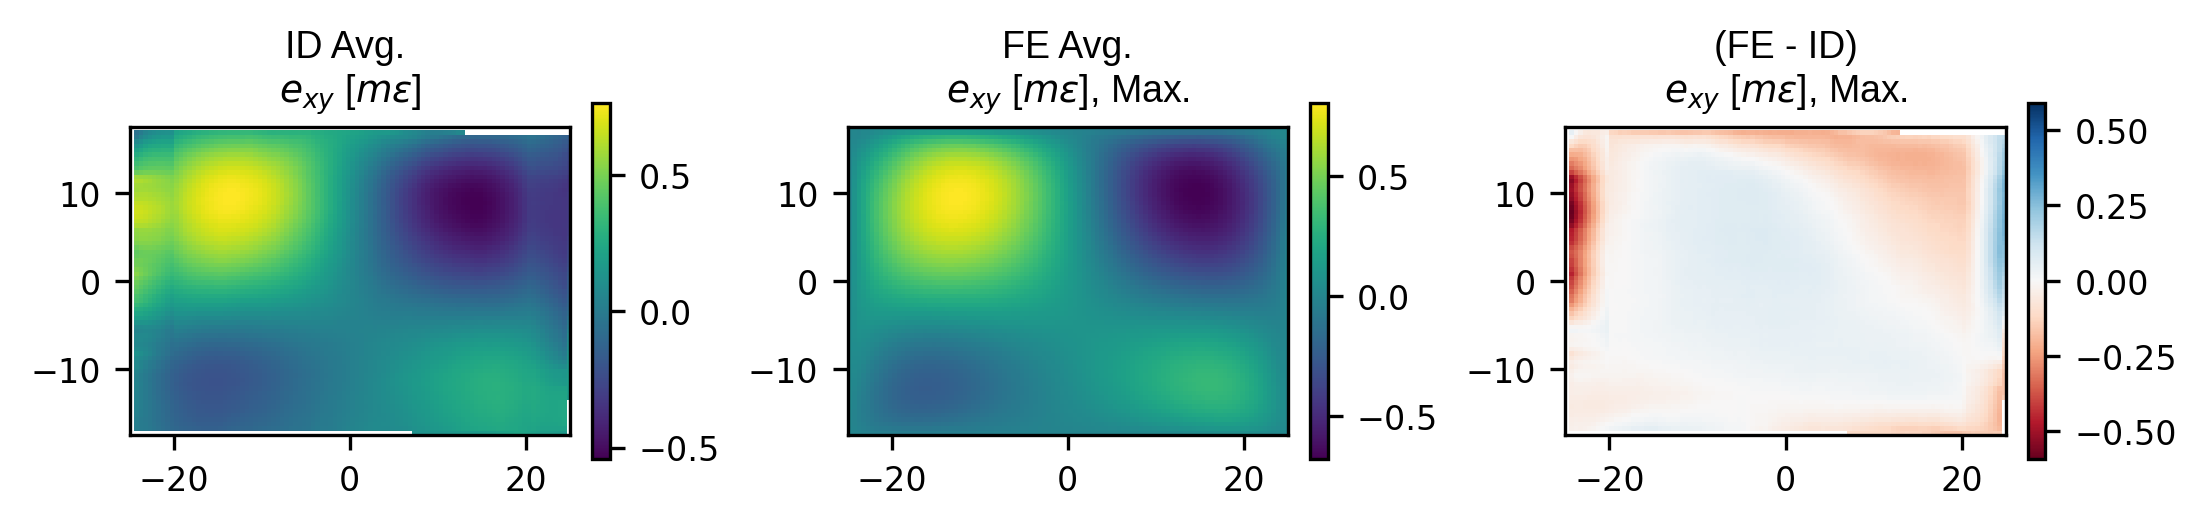
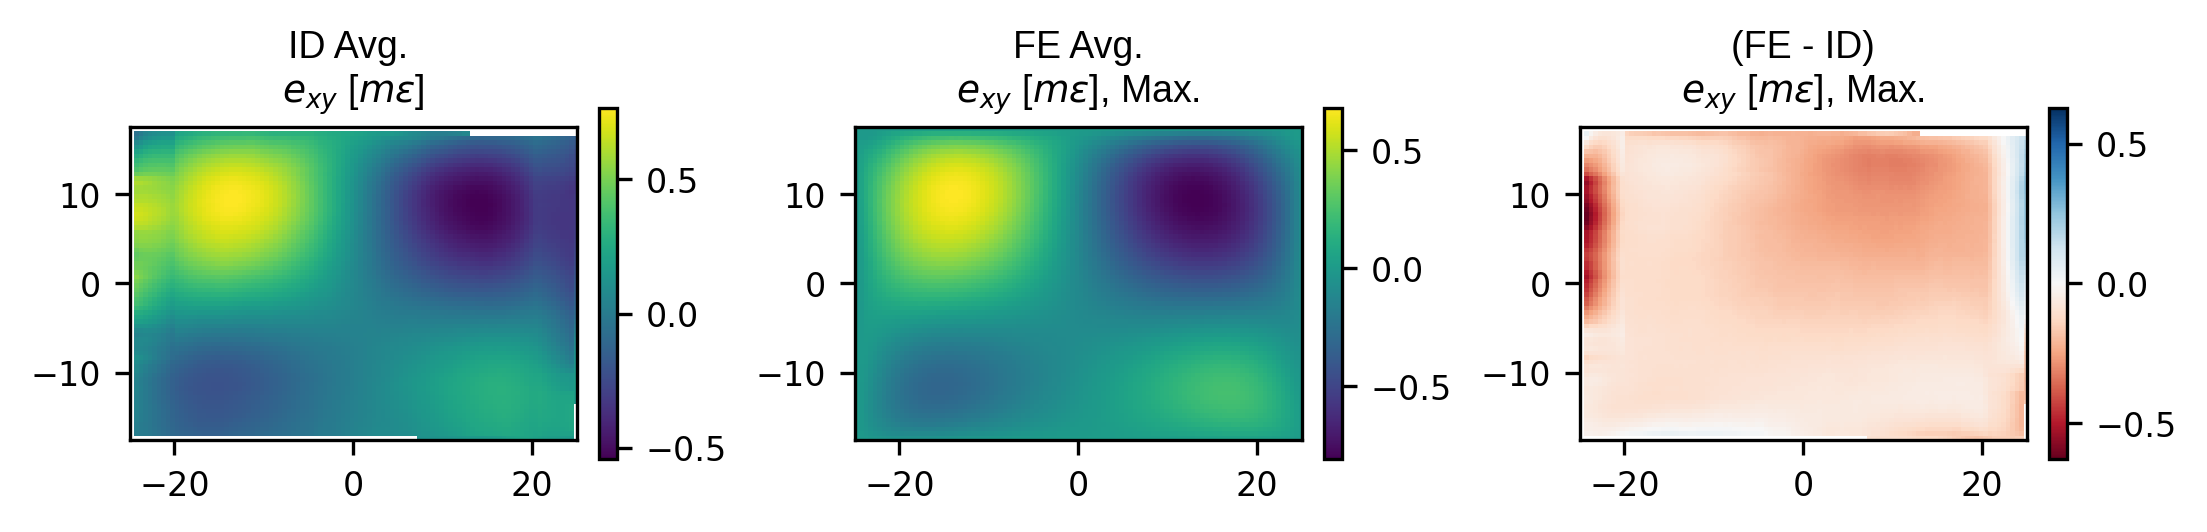
Might have worked out coordinate transform issue but shear sign is weird

diff --git a/scripts/main_imagedef_syserr_calc.py b/scripts/main_imagedef_syserr_calc.py
@@ -138,40 +138,46 @@ def main() -> None:
     #---------------------------------------------------------------------------
     # SIM: Transform simulation coords
     # NOTE: field arrays have shape=(n_doe_samps,n_pts,n_comps)
-    print(80*"-")
-    print("fe: Fitting transformation matrix...")
+#     print(80*"-")
+#     print("FE: Fitting transformation matrix...")
+# 
+#     # Expects shape=(n_pts,coord[x,y,z]), outputs 4x4 transform matrix
+#     fe_to_world_mat = vm.fit_coord_matrix(fe_coords)
+#     world_to_fe_mat = np.linalg.inv(fe_to_world_mat)
+#     print("FE to world matrix:")
+#     print(fe_to_world_mat)
+#     print()
+#     print("World to sim matrix:")
+#     print(world_to_fe_mat)
+#     print()
+# 
+#     print("Adding w coord and rotating sim coords")
+#     fe_with_w = np.hstack([fe_coords,
+#                             np.ones([fe_coords.shape[0],1])])
+#     print(f"{fe_with_w.shape=}")
+# 
+#     fe_coords = np.matmul(world_to_fe_mat,fe_with_w.T).T
+#     print(f"{fe_coords.shape=}")
+# 
+#     print("Returning sim coords by removing w coord:")
+#     fe_coords = fe_coords[:,:-1]
+#     print(f"{fe_coords.shape=}")
+#     del fe_with_w
+#     print()
 
-    # Expects shape=(n_pts,coord[x,y,z]), outputs 4x4 transform matrix
-    fe_to_world_mat = vm.fit_coord_matrix(fe_coords)
-    world_to_fe_mat = np.linalg.inv(fe_to_world_mat)
-    print("FE to world matrix:")
-    print(fe_to_world_mat)
-    print()
-    print("World to sim matrix:")
-    print(world_to_fe_mat)
-    print()
-
-    print("Adding w coord and rotating sim coords")
-    fe_with_w = np.hstack([fe_coords,
-                            np.ones([fe_coords.shape[0],1])])
-    print(f"{fe_with_w.shape=}")
-
-    fe_coords = np.matmul(world_to_fe_mat,fe_with_w.T).T
-    print(f"{fe_coords.shape=}")
-
-    print("Returning sim coords by removing w coord:")
-    fe_coords = fe_coords[:,:-1]
-    print(f"{fe_coords.shape=}")
-    del fe_with_w
-    print()
-
+    # NOTE: Just apply the shift in y to the coords from the matrix above
+    fe_coords[:,1] = -(fe_coords[:,1]-6.0) 
+    # NOTE: Seems like the sign of the shear is flipped??? Try flipping it back 
+    for kk in fe_strain:
+        fe_strain[kk][:,2] = -fe_strain[kk][:,2]
     
     #---------------------------------------------------------------------------
     # EXP-SIM Comparison of coords
     PLOT_COORD_COMP = False
-
+    SCALE_AXES = False
+    
     if PLOT_COORD_COMP:
-        down_samp: int = 1
+        down_samp: int = 2
  
         fig = plt.figure()
         ax = fig.add_subplot(projection="3d")
@@ -191,6 +197,16 @@ def main() -> None:
         ax.set_xlabel('X')
         ax.set_ylabel('Y')
         ax.set_zlabel('Z')
+
+        # Scale axes to their relative sizes
+        if SCALE_AXES:
+            x_limits = ax.get_xlim3d()
+            y_limits = ax.get_ylim3d()
+            z_limits = ax.get_zlim3d()
+            x_range = abs(x_limits[1] - x_limits[0])
+            y_range = abs(y_limits[1] - y_limits[0])
+            z_range = abs(z_limits[1] - z_limits[0])
+            ax.set_box_aspect((x_range, y_range, z_range))
 
         fig = plt.figure()
         ax = fig.add_subplot()
@@ -254,7 +270,6 @@ def main() -> None:
         id_strain_grid[kk] = id_strain_temp
         print(f"{kk=}, {fe_strain_grid[kk].shape=}, "
               +f"{id_strain_grid[kk].shape=}")
-
         
     #---------------------------------------------------------------------------
     # Figure comparing fields
